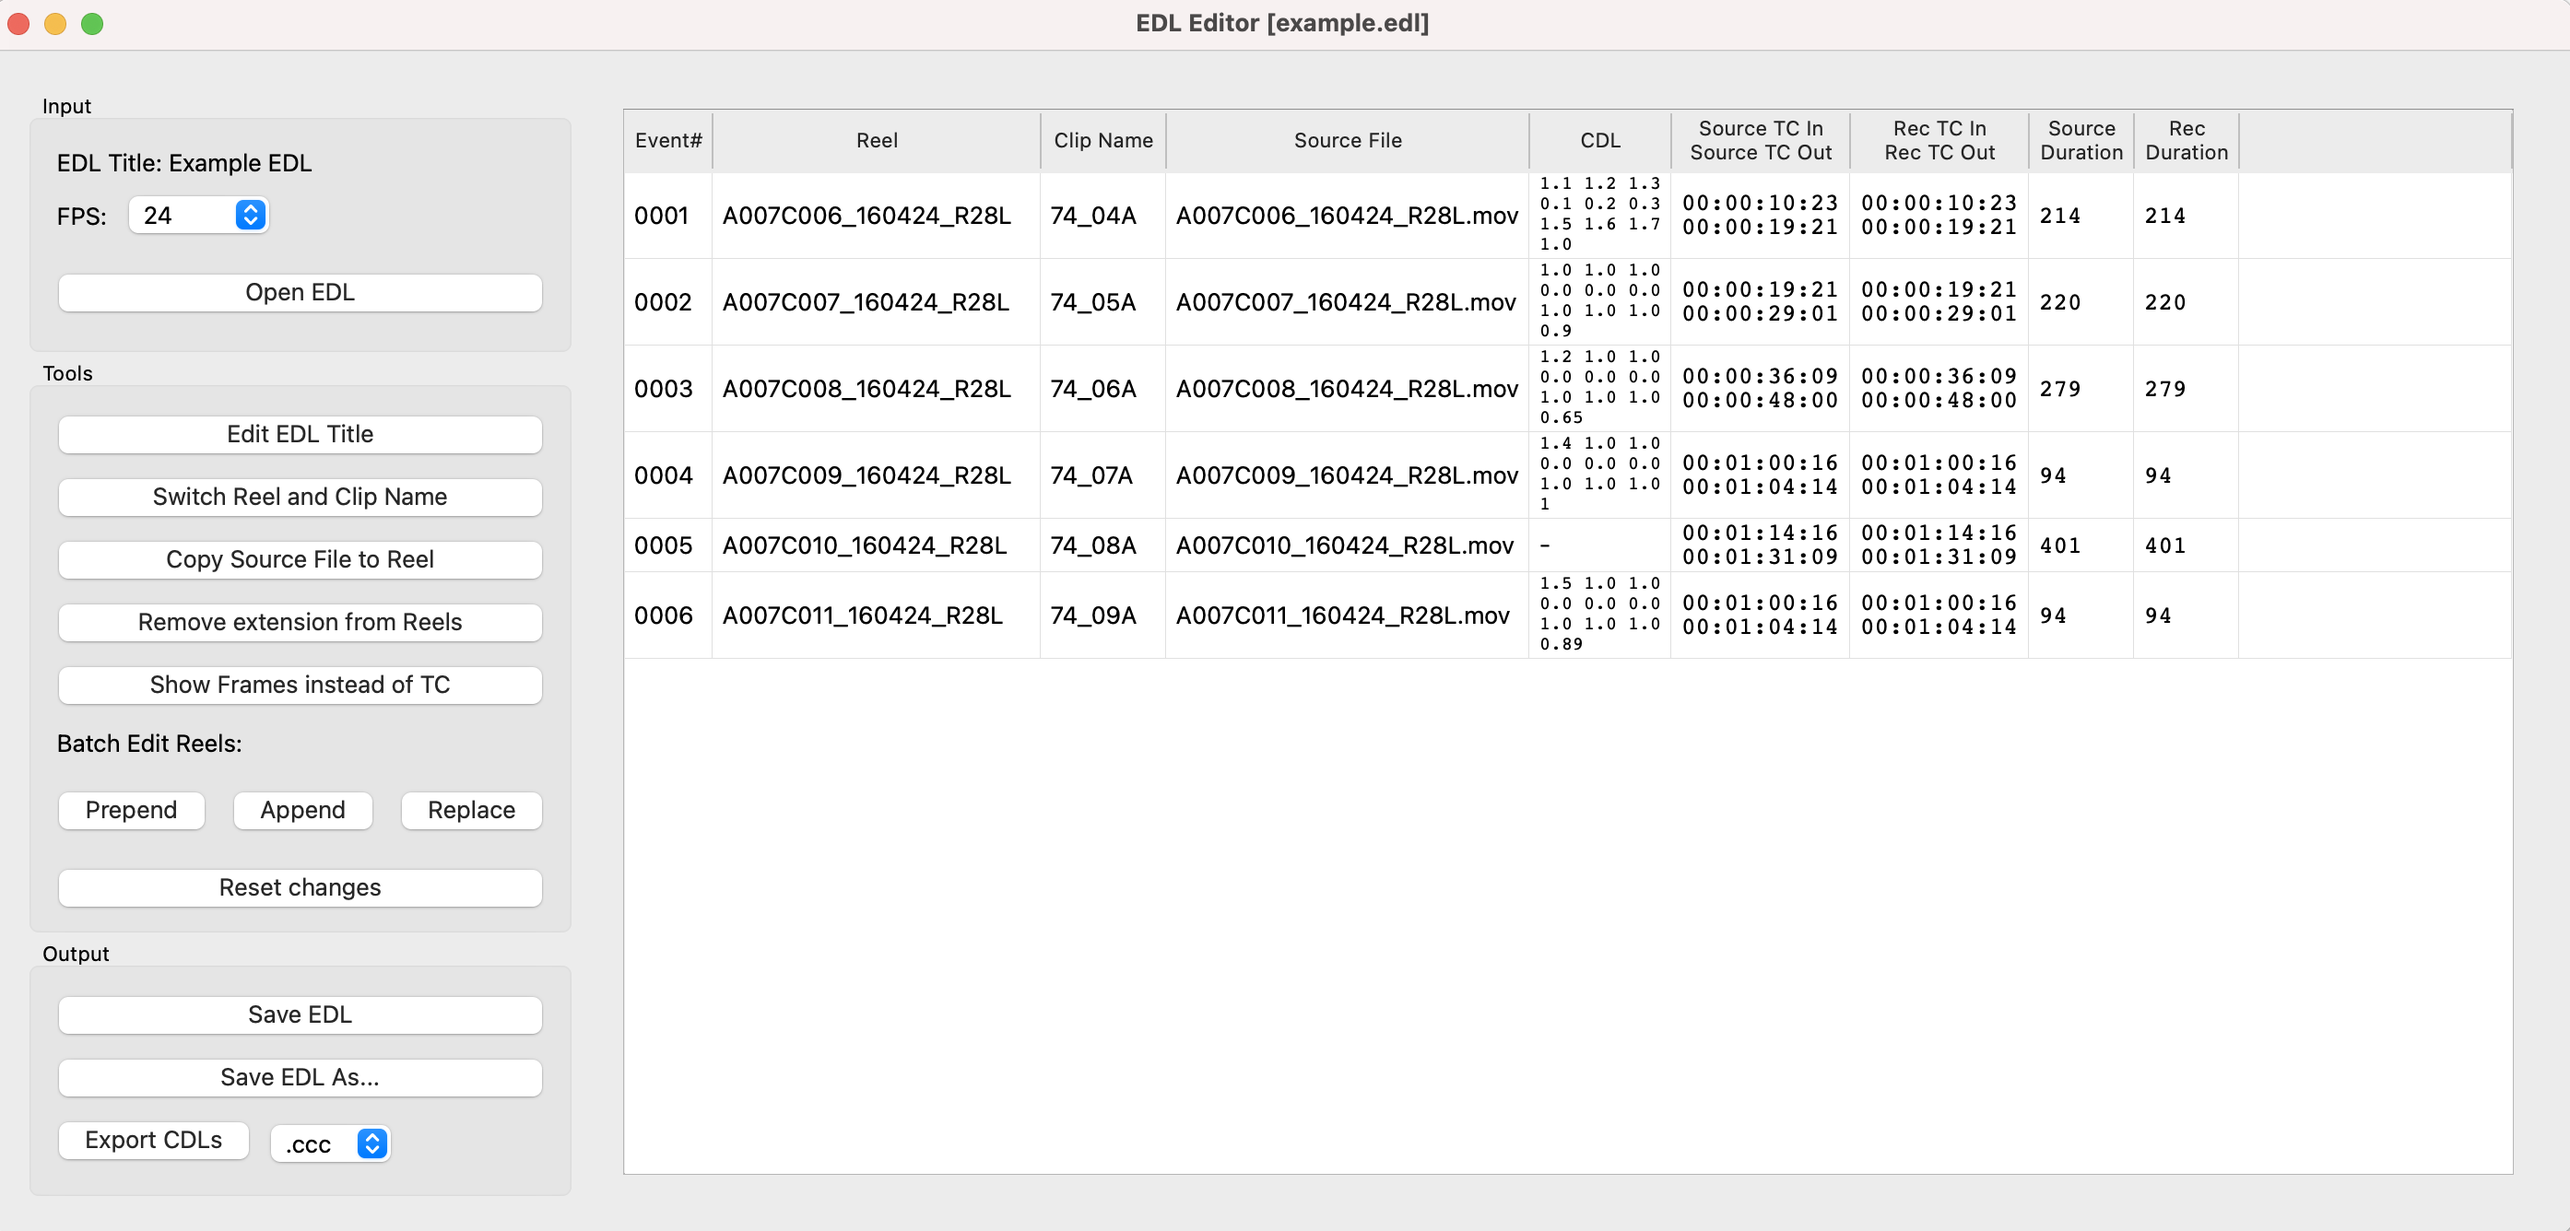
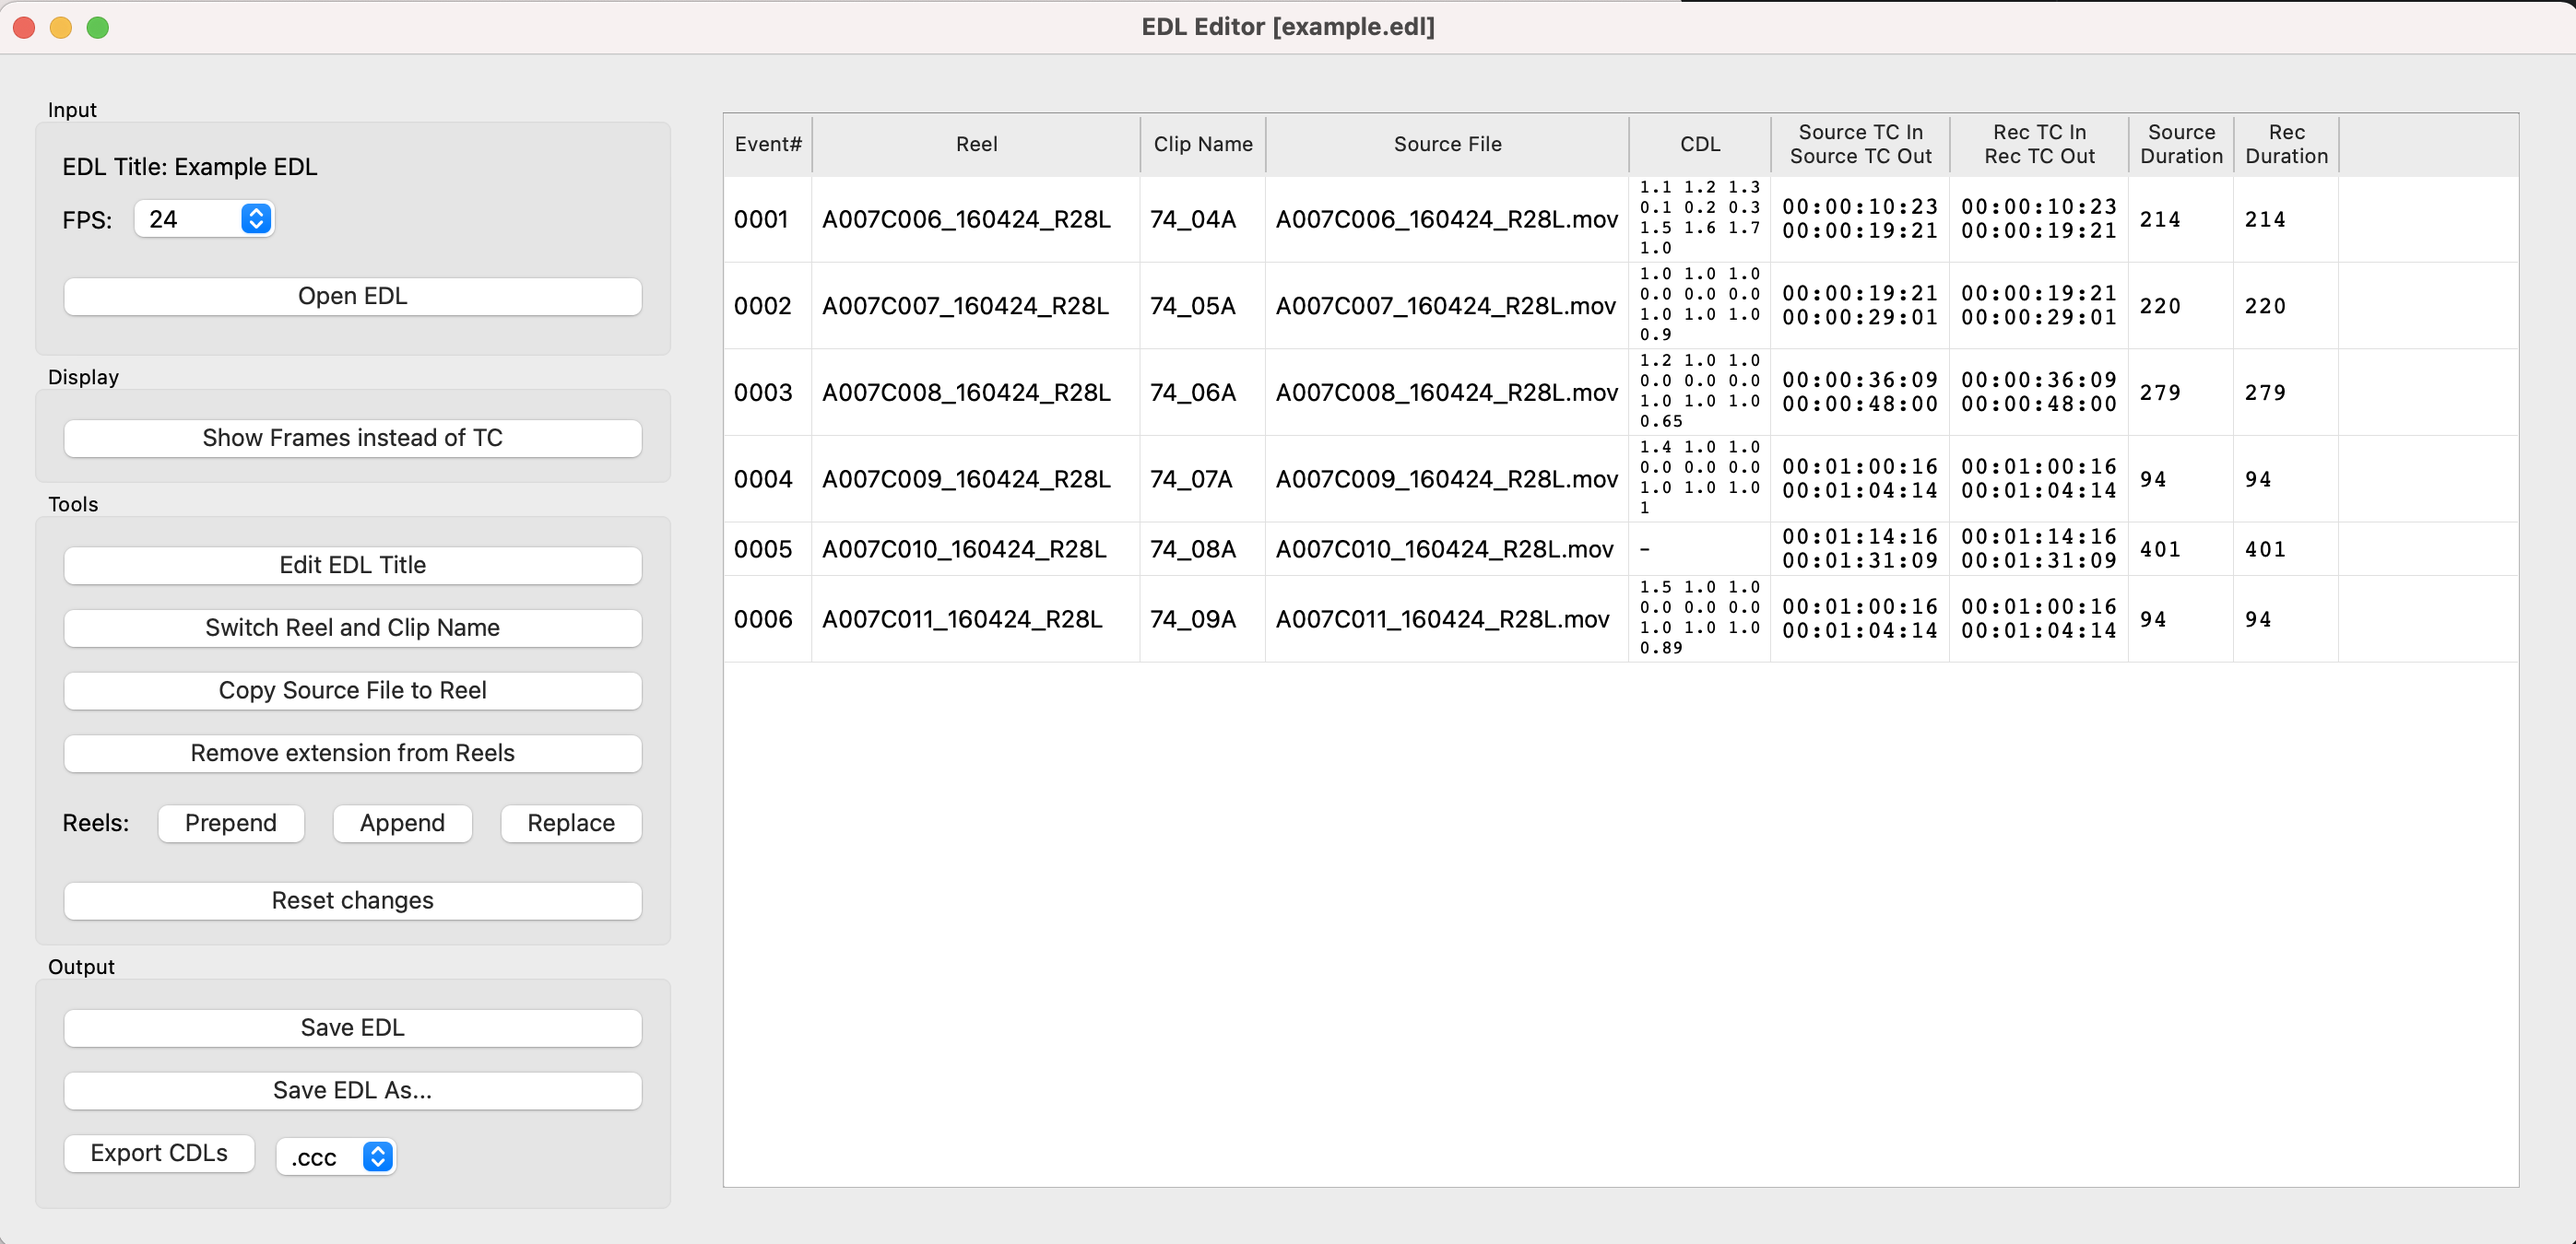
Redesign layout

diff --git a/py_edl_editor/gui.py b/py_edl_editor/gui.py
@@ -38,6 +38,7 @@ class PyEdlEditorApp(QtWidgets.QWidget):
 
         # Form Layouts Left.
         input_layout_left = QtWidgets.QFormLayout()
+        display_layout_left = QtWidgets.QFormLayout()
         tools_layout_left = QtWidgets.QFormLayout()
         output_layout_left = QtWidgets.QFormLayout()
         
@@ -64,7 +65,19 @@ class PyEdlEditorApp(QtWidgets.QWidget):
         select_edl_button_box.addWidget(select_edl_button)
         input_layout_left.addRow(select_edl_button_box)
         select_edl_button.clicked.connect(self.controller.open_edl)
-        
+
+        # Display Group on the left
+        display_group_box = QtWidgets.QGroupBox("Display")
+
+        # Show Frames instead of TC
+        toggle_frames_and_tc_button = QtWidgets.QPushButton(
+            "Show Frames instead of TC", self
+        )
+        display_layout_left.addRow(toggle_frames_and_tc_button)
+        toggle_frames_and_tc_button.clicked.connect(
+            self.controller.toggle_frames_and_tc
+        )
+
         # Tools Group on the left
         tools_group_box = QtWidgets.QGroupBox("Tools")
         
@@ -95,26 +108,18 @@ class PyEdlEditorApp(QtWidgets.QWidget):
         )
         tools_layout_left.addRow(remove_reel_ext_button)
         remove_reel_ext_button.clicked.connect(self.controller.remove_reel_ext)
-        
-        # Show Frames instead of TC
-        toggle_frames_and_tc_button = QtWidgets.QPushButton(
-            "Show Frames instead of TC", self
-        )
-        tools_layout_left.addRow(toggle_frames_and_tc_button)
-        toggle_frames_and_tc_button.clicked.connect(
-            self.controller.toggle_frames_and_tc
-        )
 
         # Batch Edit Reels
-        batch_edit_reels_label = QtWidgets.QLabel("Batch Edit Reels:", self)
+        batch_edit_reels_label = QtWidgets.QLabel("Reels:", self)
         prepend_reels_button = QtWidgets.QPushButton("Prepend", self)
         append_reels_button = QtWidgets.QPushButton("Append", self)
         replace_reels_button = QtWidgets.QPushButton("Replace", self)
         batch_edit_reels_hbox = QtWidgets.QHBoxLayout()
+        batch_edit_reels_hbox.addWidget(batch_edit_reels_label)
         batch_edit_reels_hbox.addWidget(prepend_reels_button)
         batch_edit_reels_hbox.addWidget(append_reels_button)
         batch_edit_reels_hbox.addWidget(replace_reels_button)
-        tools_layout_left.addRow(batch_edit_reels_label)
+        # tools_layout_left.addRow(batch_edit_reels_label)
         tools_layout_left.addRow(batch_edit_reels_hbox)
         prepend_reels_button.clicked.connect(self.controller.prepend_reels)
         append_reels_button.clicked.connect(self.controller.append_reels)
@@ -153,18 +158,22 @@ class PyEdlEditorApp(QtWidgets.QWidget):
         
         # Set Layout
         input_vbox = QtWidgets.QVBoxLayout()
+        display_vbox = QtWidgets.QVBoxLayout()
         tools_vbox = QtWidgets.QVBoxLayout()
         output_vbox = QtWidgets.QVBoxLayout()
         
         input_vbox.addLayout(input_layout_left)
+        display_vbox.addLayout(display_layout_left)
         tools_vbox.addLayout(tools_layout_left)
         output_vbox.addLayout(output_layout_left)
         
         input_group_box.setLayout(input_vbox)
+        display_group_box.setLayout(display_vbox)
         tools_group_box.setLayout(tools_vbox)
         output_group_box.setLayout(output_vbox)
 
         layout_left.addWidget(input_group_box)
+        layout_left.addWidget(display_group_box)
         layout_left.addWidget(tools_group_box)
         layout_left.addWidget(output_group_box)
         layout_right.addWidget(self.edl_view)
